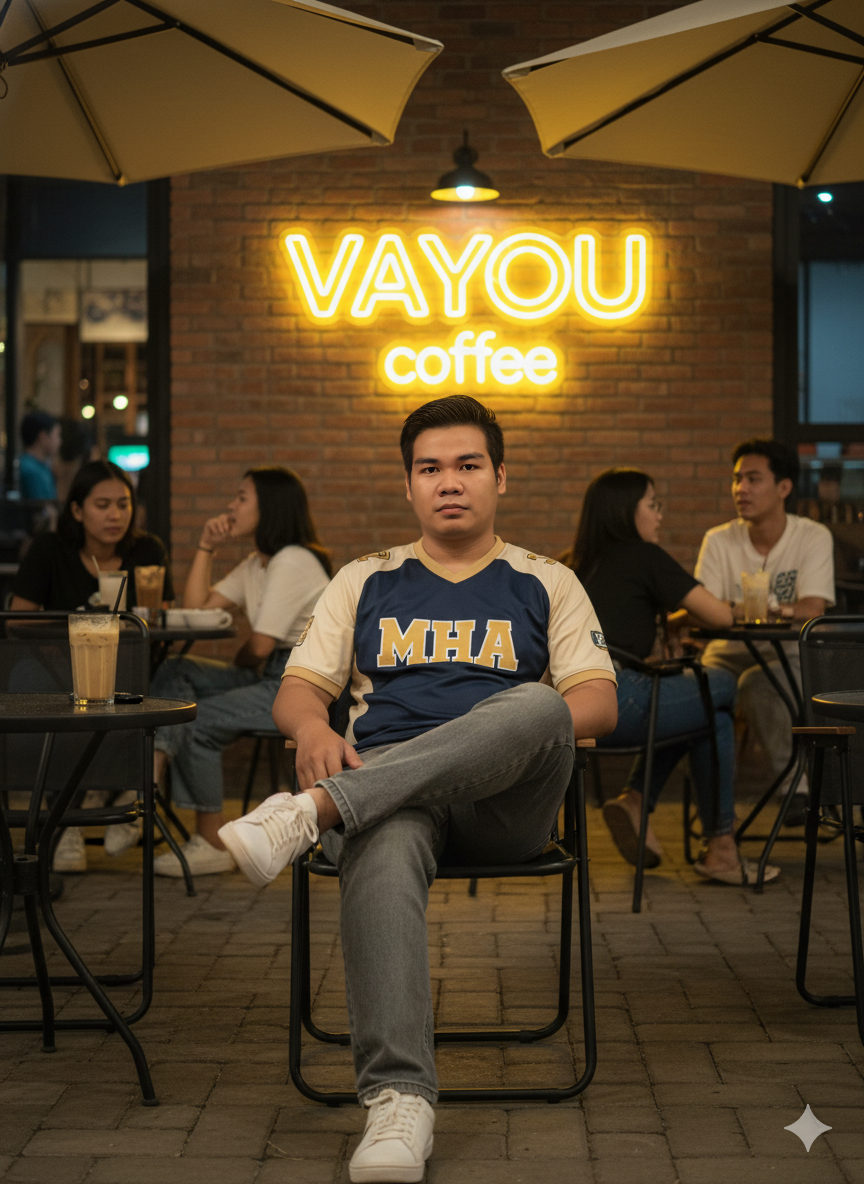
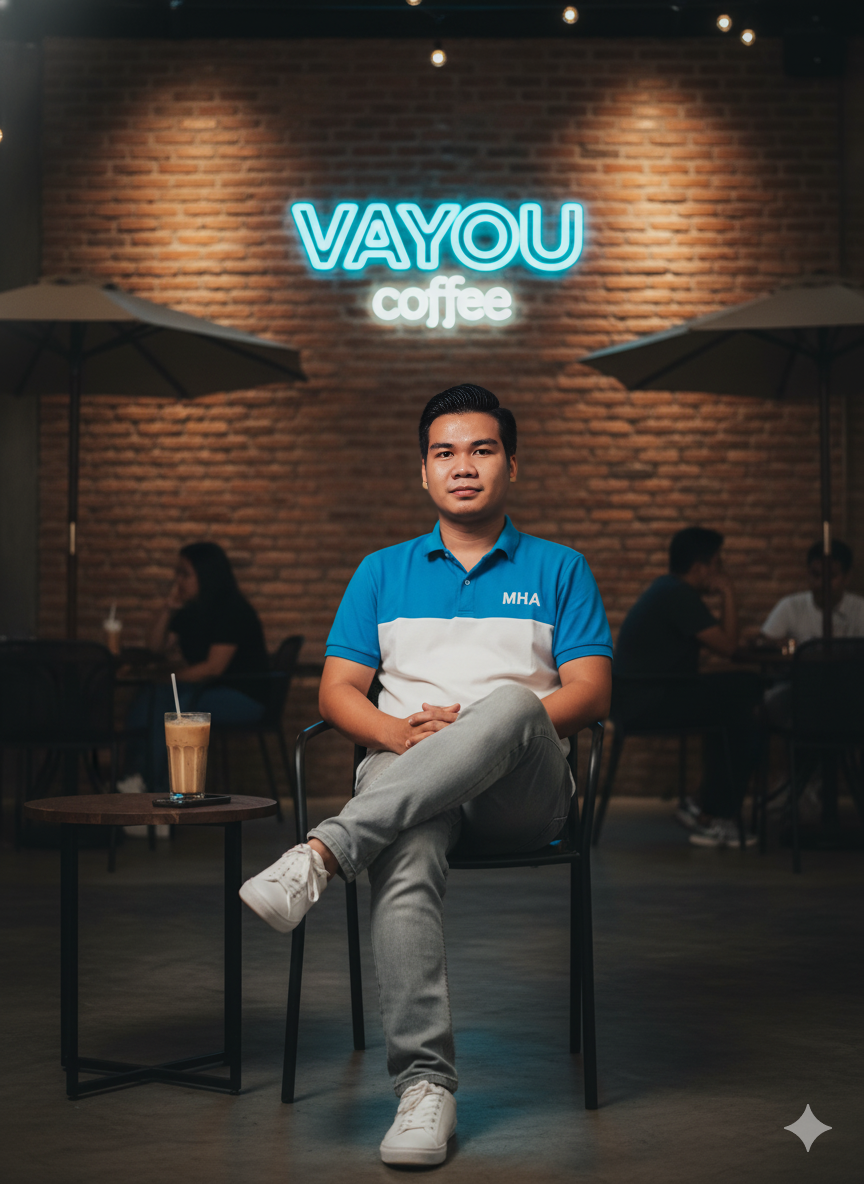
Add files via upload

diff --git a/script.js b/script.js
@@ -78,9 +78,65 @@ const defaultGalleryData = [
   },
   {
     "id": 16,
-    "image": "16.jpg",
-	"promptText": "Sebuah potret seorang pria muda Asia yang duduk santai di kursi lipat hitam di area luar kafe pada malam hari. Dia mengenakan kaus bergaya jersey berwarna biru tua dan krem dengan tulisan \"MHA\" berwarna emas di bagian dada, celana jeans abu-abu longgar, dan sepatu kets putih. Kakinya disilangkan dengan santai, dan dia melihat langsung ke kamera dengan ekspresi serius namun percaya diri.\nDi latar belakang, terlihat orang-orang duduk di meja kafe di bawah payung besar berwarna krem yang terbuka. Sebuah tanda neon kuning bertuliskan \"VAYOU coffee\" bersinar terang di dinding kafe, menjadi fokus latar belakang. Di atasnya, terlihat lampu dinding yang menyala. Di sisi kiri gambar, sebuah cangkir minuman dingin dengan sedotan terlihat di meja. Pencahayaan di kafe menciptakan suasana malam yang nyaman dengan cahaya dari tanda neon dan lampu."
+    "image": "images/16.jpg",
+    "promptText": "A full-shot portrait of an adult man with light skin, wearing a blue and white short-sleeved shirt with the letters MHA on it, light gray jeans, and white sneakers. He is seated on a black chair with his legs crossed, hands clasped, and is looking directly at the camera with a neutral expression. He has short, dark hair. Behind him is a brick wall with a bright neon sign that reads VAYOU coffee. Other patrons are blurred in the background, seated at tables under umbrellas. There is a drink on the table to the man's left. The lighting is dim with a warm glow from the neon sign and other lights."
+  },
+  {
+    "id": 17,
+    "image": "images/17.jpg",
+    "promptText": "Seorang pria muda Asia berpose di depan mobil Jeep Wrangler berwarna oranye cerah. Ia mengenakan hoodie hitam polos, celana panjang abu-abu, dan sepatu sneakers putih. Pria ini berkacamata, dengan rambut hitam pendek tersisir rapi. Ia berdiri tegak dengan tangan terkunci di depan, menghadap kamera dengan senyum tipis. Latar belakang menunjukkan pemandangan pegunungan atau bukit yang berkabut, dengan tanah gelap di bagian depan. Komposisi foto vertikal, dengan fokus utama pada pria dan mobil"
+  },
+  {
+    "id": 18,
+    "image": "images/18.jpg",
+    "promptText": "Seorang pria muda Asia berbadan agak berisi dengan rambut hitam pendek rapi dan memakai kacamata hitam berdiri di dalam sebuah kafe. Ia mengenakan kemeja lengan panjang berwarna hijau army yang digulung di bagian lengan, celana panjang putih, dan sepatu sneakers putih. Tangan kanannya memegang segelas minuman kopi dingin, sementara tangan kirinya dimasukkan ke dalam saku celana. Ia memakai jam tangan berwarna hitam. Pria tersebut menghadap sedikit ke kanan kamera dengan ekspresi datar. Latar belakang menunjukkan interior kafe yang minimalis dengan rak kayu berisi beberapa hiasan dan pajangan, serta sebuah etalase kaca berisi makanan. Komposisi foto vertikal, dengan fokus utama pada pria tersebut."
+  },
+  {
+    "id": 19,
+    "image": "images/19.jpg",
+    "promptText": "Seorang pria muda Asia berbadan atletis dengan rambut hitam pendek rapi. Ia mengenakan jaket denim biru tua, kaus hitam polos, celana panjang hitam, dan jam tangan hitam. Pria tersebut menyilangkan kedua tangannya di depan dada, menghadap lurus ke kamera dengan senyum tipis. Latar belakang menunjukkan interior rumah yang modern dengan jendela besar yang menampilkan pemandangan kota di malam hari. Komposisi foto vertikal, dengan fokus utama pada pria tersebut."
+  },
+  {
+    "id": 20,
+    "image": "images/20.jpg",
+    "promptText": "Seorang pria Asia dan berambut hitam dengan gaya rambut modern sedang duduk di kafe. Dia mengenakan kaus putih polos, celana pendek putih, dan sepatu kets berwarna terang. Dia memegang cangkir kopi berwarna abu-abu dengan tangan kirinya dan melihat ke samping dengan ekspresi termenung. foto dipotret dari luar dengan memfokuskan menembus kaca bening didalam kafe terlihat Latar belakang menunjukkan interior kafe yang remang-remang dengan meja dan kursi kayu, serta beberapa orang lainnya yang tidak fokus. Komposisi foto vertikal, dengan pantulan cahaya samar di bagian atas gambar."
+  },
+  {
+    "id": 21,
+    "image": "images/21.jpg",
+    "promptText": "Seorang pria Asia berambut hitam dengan gaya rambut rapi dan ekspresi wajah yang tenang sedang duduk di kursi gaming kulit hitam. Ia mengenakan kaus sepak bola merah dengan logo Manchester United di bagian depan, celana pendek hitam, dan sepatu kets putih. Kaki kanannya menyilang di atas kaki kirinya, dan tangannya diletakkan di pangkuannya. Ia berada di dalam ruangan yang dihiasi dengan tema Manchester United FC. Dinding di belakangnya berwarna merah cerah dengan logo besar Manchester United FC di tengahnya. Di bawah logo, terdapat meja gaming hitam dengan monitor komputer yang menampilkan pertandingan sepak bola. Di kedua sisi meja, ada rak-rak putih yang penuh dengan piala emas dan bingkai foto. Di lantai, terdapat karpet bulat berwarna merah dengan logo Manchester United FC yang besar. Pencahayaan ruangan terang dan merata."
+  },
+  {
+    "id": 22,
+    "image": "images/22.jpg",
+    "promptText": "Seorang pria Asia dengan gaya modern yang keren berdiri di tengah gambar, menatap ke arah samping. Ia mengenakan setelan jas berwarna cokelat muda, kaus putih, celana panjang putih, dan sepatu putih, dilengkapi dengan kacamata hitam. Di latar belakang, ada gambar dirinya yang lebih redup dan samar-samar dengan kacamata hitam yang sama, dikelilingi oleh cincin neon berwarna kuning yang terang, memberikan kesan futuristik dan dramatis pada keseluruhan gambar. Cahaya redup menyorotinya dari depan."
+  },
+  {
+    "id": 23,
+    "image": "images/23.jpg",
+    "promptText": "Seorang model pria Asia dengan potongan rambut hitam pendek yang rapi, mengenakan setelan kasual monokrom putih yang bergaya. Ia memakai kaus lengan panjang putih berukuran besar dengan detail jahitan yang halus, dan celana pendek putih yang serasi, menonjolkan kulitnya yang kecokelatan. Sepatu kets putih klasik melengkapi penampilannya. Ia sedang duduk santai di atas kursi atau balok berwarna hijau muda yang serasi dengan latar belakang studio. Salah satu tangannya memegang kacamata hitam berbingkai tebal yang modern, seolah baru saja menurunkannya sedikit, atau hendak memakainya. Kacamata hitam ini memberikan sentuhan misterius dan keren pada ekspresinya."
+  },
+  {
+    "id": 24,
+    "image": "images/24.jpg",
+    "promptText": "Seorang pria muda Asia duduk di tangga dalam ruangan dengan cahaya keras dari jendela yang menciptakan bayangan yang tajam. Dia mengenakan sweater hitam lengan panjang dan celana panjang abu-abu gelap, dipasangkan dengan sepatu kets putih tebal. Rambutnya hitam dan ditata rapi. Dia melihat ke atas dan ke samping, dengan ekspresi merenung. Latar belakangnya adalah dinding abu-abu terang, dan bayangan dirinya terlihat di dinding di sebelah kanannya. Suasana keseluruhan memiliki kualitas yang tenang dan introspektif."
+  },
+  {
+    "id": 25,
+    "image": "images/25.jpg",
+    "promptText": "Seorang pria Indonesia yang modis mengenakan setelan hitam yang elegan, kemeja hitam, dan sepatu pantofel kulit hitam. Ia memakai kacamata hitam gaya dan jam tangan emas. Pria itu duduk dengan postur santai namun percaya diri di kursi hitam minimalis, memegang cangkir kopi putih sekali pakai di tangan kirinya. Ia memandang ke samping, dengan ekspresi tenang dan berkelas. Pencahayaan lembut menciptakan bayangan yang menarik di dinding cokelat muda di belakangnya, menyoroti profilnya dan menambahkan kesan dramatis pada potretnya. Foto ini memiliki estetika yang bersih dan modern, dengan fokus pada gaya dan komposisi."
+  },
+  {
+    "id": 26,
+    "image": "images/26.jpg",
+    "promptText": "Foto seorang pria asia dengan kulit coklat muda dan rambut hitam pendek, mengenakan kaus merah marun polos, celana pendek hitam, dan sepatu kets putih dengan kaus kaki putih. Dia memegang sebotol air di tangan kirinya. Dia berjalan keluar dari pintu kaca ganda. Pencahayaan lembut, siang hari."
+  },
+  {
+    "id": 27,
+    "image": "images/27.jpg",
+    "promptText": "Buat foto seorang pria wajah dan rambut sama persis seperti di foto , berat badan 70 kg, tinggi 168 cm . sedang berlari santai, dengan latar belakang stadion . Ia mengenakan kaos sport warna hitam dan celana panjang olahraga warna hitam . Ia memakai sepatu lari merek nike berwarna hitam dengan aksen biru. Pria tersebut berpose jogging dengan pose candid Ia memegang handphone android , memakai tws dan memakai smartwatch dengan strap warna hitam di pergelangan tangan kiri. Latar belakang dipenuhi vegetasi hijau cerah, pohon-pohon besar, dan sedikit terlihat arena stadion dan pencahayaan bokeh hangat dari lampu taman. Langit sebagian terlihat di kanan atas gambar, menandakan suasana pagi atau sore dengan pencahayaan alami yang lembut dan seimbang. Jalan yang dilalui di pinggir trotoar yang hitam putih di pinggirannya dengan jalanan cor semen . Terdapat beberapa orang lain yang sedang jogging Spesifikasi kamera dan aspek teknis: • Tipe kamera: DSLR profesional atau mirrorless full-frame (contoh: Sony A7R IV atau Canon EOS R5) • Lensa: 85mm f/1.8 (untuk menghasilkan depth of field dangkal dan latar belakang bokeh) • Aperture: f/1.8 (untuk latar belakang blur dan fokus tajam pada subjek) • Shutter speed: 1/1000s (untuk membekukan gerakan saat berjalan) • ISO: 200 (pencahayaan alami yang cukup, menjaga kualitas tanpa noise) • White balance: Daylight • Fokus: Fokus otomatis tepat pada wajah subjek • Pencahayaan: Natural lighting, kemungkinan diambil saat golden hour pagi/sore Komposisi gambar: • Subjek berada di tengah bingkai dengan ruang ke depan arah gerakan, menciptakan keseimbangan visual. • Sudut pengambilan gambar sejajar dengan tinggi mata (eye-level shot), memberikan kesan alami dan membumi. • Latar belakang blur namun tetap menunjukkan konteks stadion yang hijau dan rapi."
   }
+  
 ];
 
 // Fungsi untuk MEMBACA data dari localStorage
